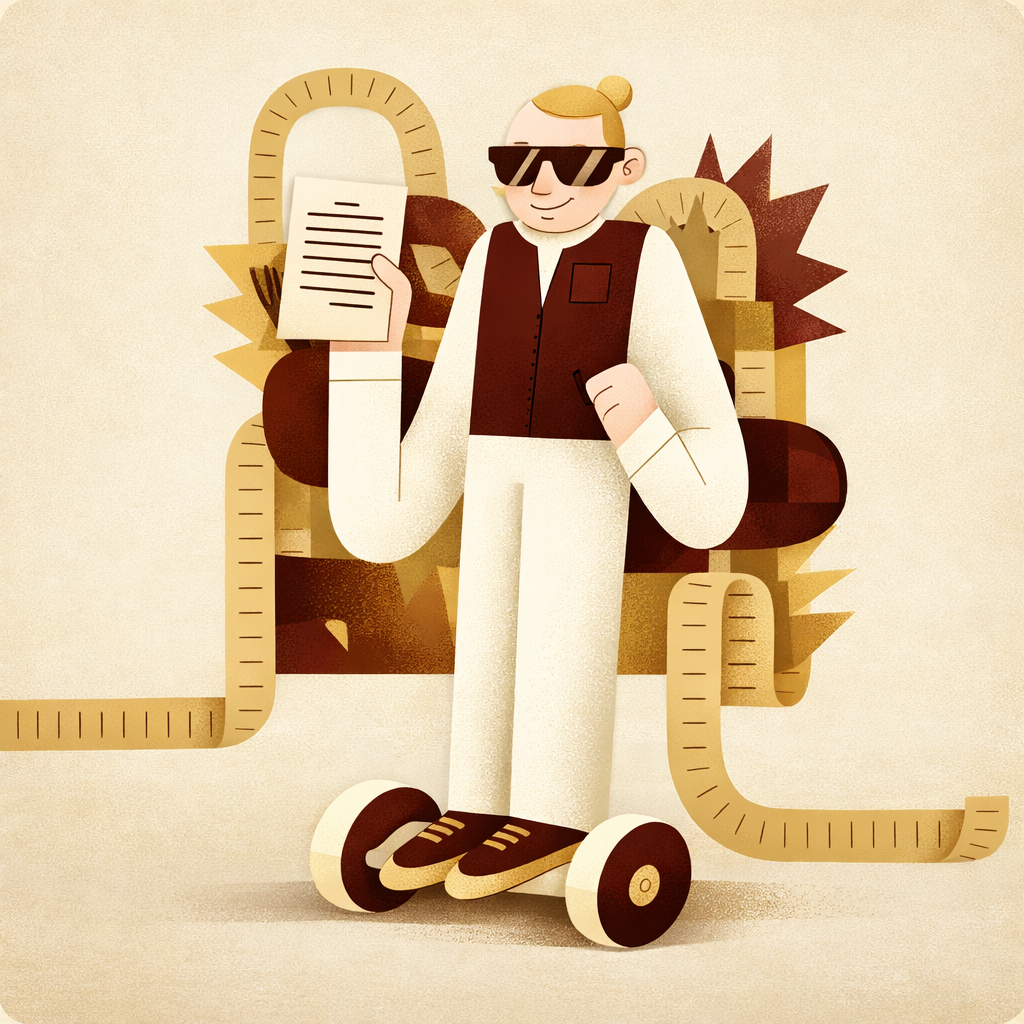
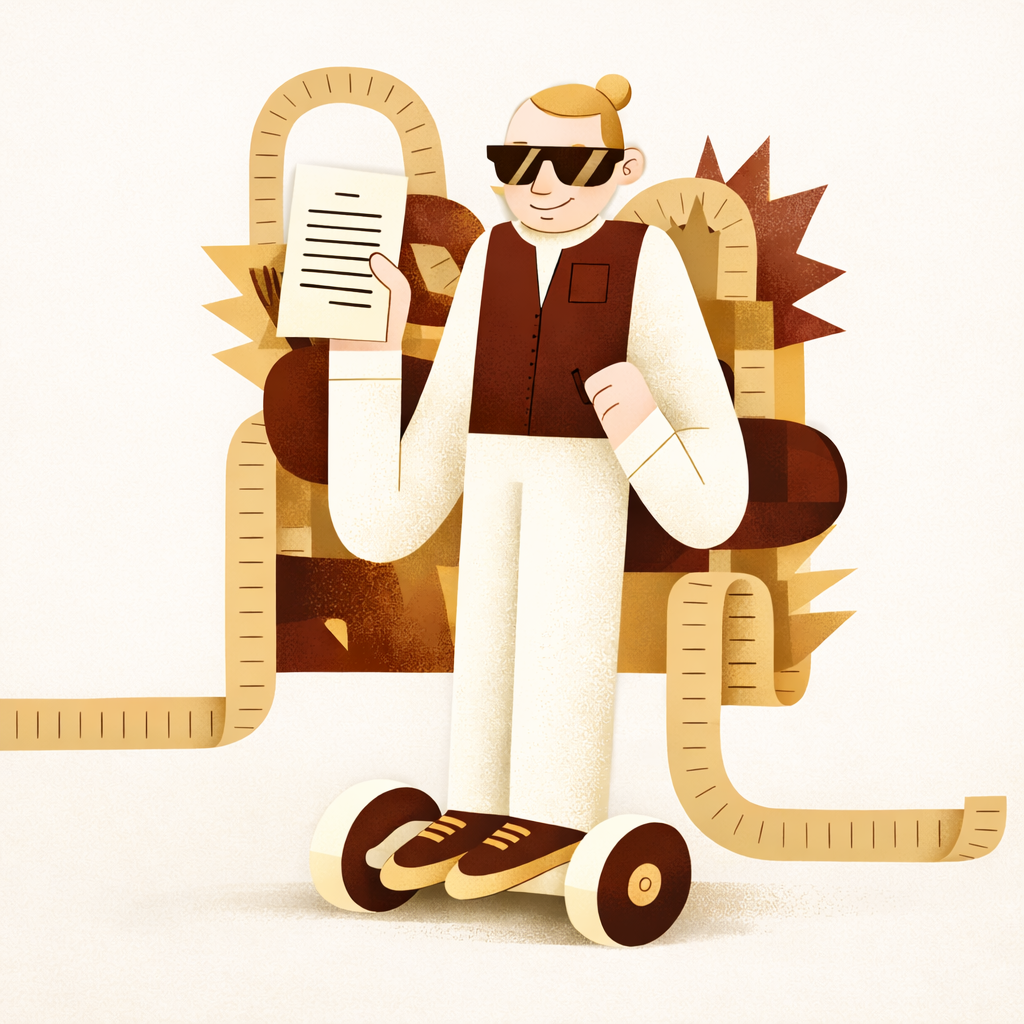
Blend compare card images into page background
Use mix-blend-mode: darken on both compare card images so their
backgrounds match the page bone color. Update light card background
to var(--bone) and reference updated illustration assets.

diff --git a/assets/css/styles.css b/assets/css/styles.css
@@ -544,6 +544,10 @@ textarea:focus-visible {
   color: var(--oxblood);
 }
 
+.compare-card-dark img {
+  mix-blend-mode: darken;
+}
+
 .compare-card-dark p,
 .compare-card-dark li {
   color: var(--muted);
@@ -560,12 +564,12 @@ textarea:focus-visible {
 }
 
 .compare-card-light {
-  background: #E8DFCD;
+  background: var(--bone);
   color: var(--oxblood);
 }
 
 .compare-card-light img {
-  mix-blend-mode: multiply;
+  mix-blend-mode: darken;
 }
 
 .compare-card-light h3,

diff --git a/index.html b/index.html
@@ -125,7 +125,7 @@
             </ul>
           </article>
           <article class="compare-card compare-card-light">
-            <img src="imageforniedbala.png" alt="Niedbala">
+            <img src="imageforniedbala2.png" alt="Niedbala">
             <h3>Niedbala</h3>
             <ul>
               <li class="is-positive">Flexible structures with cash upfront</li>
